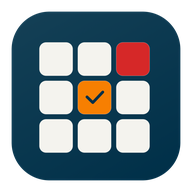
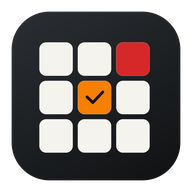
Refresh demo assets and documentation for both color themes

diff --git a/scripts/render-demo.py b/scripts/render-demo.py
@@ -10,21 +10,15 @@ from PIL import Image, ImageChops, ImageCms, ImageColor, ImageDraw, ImageFont
 
 
 WIDTH, HEIGHT = 1200, 800
-BACKGROUND = "#003049"
-FOREGROUND = "#f4f3ee"
 ORANGE = "#f77f00"
 RED = "#d62828"
-ACCENTS = {0: FOREGROUND, 1: ORANGE, 2: RED}
+INK = "#111315"
+PARCHMENT = "#f4f3ee"
+PALETTES = {
+    "dark": dict(background=INK, foreground=PARCHMENT, surface="#1c1f22", muted="#b3b8be", border="#454a50"),
+    "light": dict(background=PARCHMENT, foreground="#202326", surface="#ffffff", muted="#50565b", border="#cecfca"),
+}
 SCENES = [(1, 3500), (2, 3500), (0, 2000)]
-
-
-def tint(fraction):
-    return tuple(round(a + (b - a) * fraction) for a, b in zip(ImageColor.getrgb(BACKGROUND), ImageColor.getrgb(FOREGROUND)))
-
-
-SURFACE = tint(0.06)
-MUTED = tint(0.74)
-BORDER = tint(0.24)
 
 
 def font(path, size, bold=False):
@@ -33,40 +27,42 @@ def font(path, size, bold=False):
     return result
 
 
-def indexed_frame(frame, palette):
+def indexed_frame(frame, palette, reserved):
     indexed = frame.quantize(palette=palette, dither=Image.Dither.NONE)
     # Pillow's palette lookup groups nearby RGB values; preserve exact flat fills.
-    for index, color in enumerate((BACKGROUND, FOREGROUND, ORANGE, RED), start=252):
+    for index, color in enumerate(reserved, start=256 - len(reserved)):
         r, g, b = ImageChops.difference(frame, Image.new("RGB", frame.size, color)).split()
         mask = ImageChops.lighter(ImageChops.lighter(r, g), b).point(lambda value: 255 if value == 0 else 0)
         indexed.paste(index, mask=mask)
     return indexed
 
 
-def scene(layer, previews, typeface):
-    canvas = Image.new("RGB", (WIDTH, HEIGHT), BACKGROUND)
+def scene(layer, previews, typeface, appearance):
+    colors = PALETTES[appearance]
+    canvas = Image.new("RGB", (WIDTH, HEIGHT), colors["background"])
     draw = ImageDraw.Draw(canvas)
-    accent = ACCENTS[layer]
+    accent = {0: colors["foreground"], 1: ORANGE, 2: RED}[layer]
 
-    draw.text((44, 41), "KEYFINDER", font=font(typeface, 27, True), fill=FOREGROUND, anchor="lm")
-    draw.text((44, 77), "Moonlander layer overlay", font=font(typeface, 19), fill=MUTED, anchor="lm")
+    draw.text((44, 41), "KEYFINDER", font=font(typeface, 27, True), fill=colors["foreground"], anchor="lm")
+    draw.text((44, 77), "Moonlander layer overlay", font=font(typeface, 19), fill=colors["muted"], anchor="lm")
 
     cursor = 648
     for index, title, width in [(0, "0 · Typing", 144), (1, "1 · Symbols", 160), (2, "2 · Navigation", 184)]:
         selected = index == layer
         draw.rounded_rectangle(
             (cursor, 30, cursor + width, 88), radius=16,
-            fill=accent if selected else SURFACE,
-            outline=FOREGROUND if selected else BORDER, width=2,
+            fill=accent if selected else colors["surface"],
+            outline=accent if selected else colors["border"], width=2,
         )
         draw.text(
             (cursor + width / 2, 59), title, font=font(typeface, 19, selected),
-            fill=(FOREGROUND if layer == 2 else BACKGROUND) if selected else MUTED, anchor="mm",
+            fill=(colors["background"] if layer == 0 else PARCHMENT if layer == 2 else INK) if selected else colors["muted"], anchor="mm",
         )
         cursor += width + 10
 
     if layer:
-        with Image.open(previews / f"layer-{layer}.png") as rendered:
+        suffix = "-light" if appearance == "light" else ""
+        with Image.open(previews / f"layer-{layer}{suffix}.png") as rendered:
             # AppKit captures can use a display profile; GIF has no color profile.
             profile = rendered.info.get("icc_profile")
             overlay = ImageCms.profileToProfile(
@@ -77,14 +73,14 @@ def scene(layer, previews, typeface):
     else:
         # This empty stage illustrates hiding; it is not an app window.
         draw.rounded_rectangle((562, 313, 638, 389), radius=23, fill=ORANGE)
-        draw.text((600, 351), "0", font=font(typeface, 35, True), fill=BACKGROUND, anchor="mm")
-        draw.text((600, 445), "Typing layer", font=font(typeface, 42, True), fill=FOREGROUND, anchor="mm")
-        draw.text((600, 495), "Layer 0 hides the overlay.", font=font(typeface, 23), fill=MUTED, anchor="mm")
+        draw.text((600, 351), "0", font=font(typeface, 35, True), fill=INK, anchor="mm")
+        draw.text((600, 445), "Typing layer", font=font(typeface, 42, True), fill=colors["foreground"], anchor="mm")
+        draw.text((600, 495), "Layer 0 hides the overlay.", font=font(typeface, 23), fill=colors["muted"], anchor="mm")
 
     draw.ellipse((46, 762, 56, 772), fill=accent)
     state = "Overlay visible" if layer else "Overlay hidden"
-    draw.text((70, 767), f"Layer {layer} · {state}", font=font(typeface, 17), fill=MUTED, anchor="lm")
-    draw.text((1156, 767), "OFFLINE DEMO", font=font(typeface, 15, True), fill=MUTED, anchor="rm")
+    draw.text((70, 767), f"Layer {layer} · {state}", font=font(typeface, 17), fill=colors["muted"], anchor="lm")
+    draw.text((1156, 767), "OFFLINE DEMO", font=font(typeface, 15, True), fill=colors["muted"], anchor="rm")
     return canvas
 
 
@@ -93,6 +89,7 @@ def main():
     parser.add_argument("--app", type=Path, required=True)
     parser.add_argument("--font", type=Path, required=True)
     parser.add_argument("--output", type=Path, default=Path("artifacts/demo.gif"))
+    parser.add_argument("--appearance", choices=PALETTES, default="dark")
     args = parser.parse_args()
 
     with tempfile.TemporaryDirectory(prefix="keyfinder-demo-") as directory:
@@ -101,17 +98,19 @@ def main():
             [str(args.app / "Contents/MacOS/Keyfinder"), "--render-previews", str(previews)],
             check=True,
         )
-        frames = [scene(layer, previews, args.font) for layer, _ in SCENES]
+        frames = [scene(layer, previews, args.font, args.appearance) for layer, _ in SCENES]
 
     # One palette keeps text, backgrounds, and accents stable between scenes.
     atlas = Image.new("RGB", (WIDTH, HEIGHT * len(frames)))
     for index, frame in enumerate(frames):
         atlas.paste(frame, (0, HEIGHT * index))
-    palette = atlas.quantize(colors=252, method=Image.Quantize.MEDIANCUT)
-    # Reserve the four brand colors so quantization does not shift flat fills.
-    brand_colors = [channel for color in (BACKGROUND, FOREGROUND, ORANGE, RED) for channel in ImageColor.getrgb(color)]
-    palette.putpalette(palette.getpalette()[:252 * 3] + brand_colors)
-    frames = [indexed_frame(frame, palette) for frame in frames]
+    reserved = [PALETTES[args.appearance]["background"], PALETTES[args.appearance]["foreground"], ORANGE, RED, INK, PARCHMENT]
+    color_count = 256 - len(reserved)
+    palette = atlas.quantize(colors=color_count, method=Image.Quantize.MEDIANCUT)
+    # Reserve flat fills so quantization does not shift them between scenes.
+    flat_colors = [channel for color in reserved for channel in ImageColor.getrgb(color)]
+    palette.putpalette(palette.getpalette()[:color_count * 3] + flat_colors)
+    frames = [indexed_frame(frame, palette, reserved) for frame in frames]
     args.output.parent.mkdir(parents=True, exist_ok=True)
     frames[0].save(
         args.output, format="GIF", save_all=True, append_images=frames[1:],

diff --git a/docs/VERIFICATION.md b/docs/VERIFICATION.md
@@ -8,14 +8,14 @@ Verified September 30, 2026 on macOS 26.6.2, Apple Silicon. The Nix package uses
 | --- | --- |
 | Core checks | 13 tests, 1,460 assertions passed |
 | Core checks plus explicit live Oryx query | 14 tests, 1,462 assertions passed using a supplied exact-revision URL; no preset account or layout in the runner |
-| Nix-packaged release AppKit integration | 38 checks passed, including demo setup, menu bar visibility, and Settings lifecycle |
-| Visual inspection | All three keyboard layers and settings pages rendered and reviewed, including selected keys, disabled Oryx colors, and the unverified-revision badge |
+| Nix-packaged release AppKit integration | 48 checks passed, including appearance changes, preference migration, menu bar visibility, and Settings lifecycle |
+| Visual inspection | All three keyboard layers and settings pages rendered and reviewed in Light and Dark, including selected keys, disabled Oryx colors, and the unverified-revision badge |
 | Standalone packaging | The Nix DMG mounted read-only; both the mounted app and a copy installed outside the store passed signature verification and bundled-layout diagnostics |
 | macOS deployment target | `26.0` in both Info.plist and the Mach-O build-version load command |
 | Local signature | `codesign --verify --strict` passed; ad-hoc signature |
-| App bundle size | 1,964,458 bytes (about 1.87 MiB) |
-| Nix runtime closure | 2,017,944 bytes; only the launcher and app bundle, with no compiler or SDK dependency |
-| Disk image size | 2,363,392 bytes (about 2.25 MiB), uncompressed |
+| App bundle size | 2,014,685 bytes (about 1.92 MiB) |
+| Nix runtime closure | 2,068,176 bytes; only the launcher and app bundle, with no compiler or SDK dependency |
+| Disk image size | 2,412,544 bytes (about 2.30 MiB), uncompressed |
 | Release workflow | `actionlint` passed; native Intel build and actual GitHub release publication remain untested |
 
 The integration checks use the actual AppDelegate, AppModel, repository, preferences, settings views, status item, and NSPanel. Keyboard events, revision-fetch responses, and launch/reopen notifications are simulated. They cover:
@@ -28,12 +28,14 @@ The integration checks use the actual AppDelegate, AppModel, repository, prefere
 - Keeping live labels unchanged after an Oryx preview refresh, activating the matching revision after a simulated flash/reconnect, and reusing its cache.
 - Showing no old key labels for an unavailable new revision, preserving the error across layer changes, and rejecting a late response from an earlier connection.
 - Preference persistence and preview cleanup.
+- Switching Settings and the visible overlay between Light, Dark, and System; following inherited appearance changes; restoring the saved choice on launch; and accepting older or unknown theme preferences without resetting other settings.
+- Skipping hidden-overlay rendering during a system theme change, then drawing the current theme when shown again.
 - Preserving existing settings when upgrading, hiding and restoring the menu bar icon immediately, and keeping the monitor and overlay active while the icon is hidden.
 - Showing Settings on a direct launch with the icon hidden, restoring closed and minimized Settings windows on reopen, and keeping `--background` startup quiet until an explicit reopen.
 
 The executable's `--smoke-test` command returns a nonzero exit code if any check fails. Rendered settings artifacts use AppKit's view rendering and do not require screen recording permission.
 
-Palette text contrast was checked in sRGB on opaque backgrounds: parchment on blue is 12.44:1, blue on orange is 5.26:1, and parchment on red is 4.51:1. Secondary key labels remain at least 4.53:1 against the lightest permitted Oryx tint, after AppKit color conversion. Custom buttons and layer selectors use blue/orange text pairs. The overlay's user-adjustable opacity can change contrast against the desktop. The README GIF converts AppKit captures to sRGB before encoding.
+Text contrast was checked in sRGB on opaque backgrounds: parchment on charcoal is 16.76:1, dark text on parchment is 14.21:1, charcoal on orange is 7.09:1, and parchment on red is 4.51:1. Secondary key labels remain at least 4.59:1 across both themes, including the darkest and lightest possible Oryx tints. The overlay's user-adjustable opacity can change contrast against the desktop. The README GIF converts AppKit captures to sRGB before encoding.
 
 **Measured idle performance**
 
@@ -41,11 +43,11 @@ The measurement launched the actual Nix-packaged release app with `--background`
 
 | Metric | Observed |
 | --- | --- |
-| Measurement duration | 30.005 seconds |
-| App CPU time during the interval | 0.000063 seconds |
-| Average CPU utilization | 0.000211% of one core |
-| Resident memory at end | 46.7 MiB |
-| Context switches during interval | 16 |
+| Measurement duration | 30.009 seconds |
+| App CPU time during the interval | 0.000049 seconds |
+| Average CPU utilization | 0.000164% of one core |
+| Resident memory at end | 46.4 MiB |
+| Context switches during interval | 19 |
 | Mach messages received during interval | 2 |
 | Threads at end | 3 |
 
@@ -89,11 +91,11 @@ codesign --verify --strict result/Applications/Keyfinder.app
 Generated reports and images are in `artifacts/`. The verified release executable SHA-256 is:
 
 ```text
[2 lines of base64/hex data omitted]
 ```
 
 The verified DMG SHA-256 is:
 
 ```text
[2 lines of base64/hex data omitted]
 ```

diff --git a/docs/NIX.md b/docs/NIX.md
@@ -44,7 +44,7 @@ nix run .#benchmark -- --seconds 30 --output artifacts/idle-performance.json
 nix build .#dmg --out-link result-dmg
 ```
 
-The package's offline core checks run inside the build. GUI checks, preview rendering, and performance measurements run explicitly in your desktop session. They are not cached as build-time test results, and they do not run during system activation. The smoke command accepts an optional report path; previews accepts an optional output directory. Alongside the bundled layers, previews renders a selected key and unverified-revision badge with Oryx colors disabled. Relative paths resolve from the directory where you invoke Nix.
+The package's offline core checks run inside the build. GUI checks, preview rendering, and performance measurements run explicitly in your desktop session. They are not cached as build-time test results, and they do not run during system activation. The smoke command accepts an optional report path; previews accepts an optional output directory. Previews renders each bundled layer in Light and Dark, plus a selected key and unverified-revision badge with Oryx colors disabled. Light assets use a `-light` filename suffix. Relative paths resolve from the directory where you invoke Nix.
 
 The benchmark starts its own app process and terminates only that process. Disconnect the keyboard and keep Settings closed when measuring the unplugged idle baseline. Reports are observations of the host and cannot be reproduced as fixed derivation outputs.
 
@@ -52,6 +52,7 @@ The demo generator uses the packaged app's AppKit renderer, then composes a nine
 
 ```sh
 nix run .#demo -- --output docs/assets/demo.gif
+nix run .#demo -- --appearance light --output docs/assets/demo-light.gif
 ```
 
 For development:
